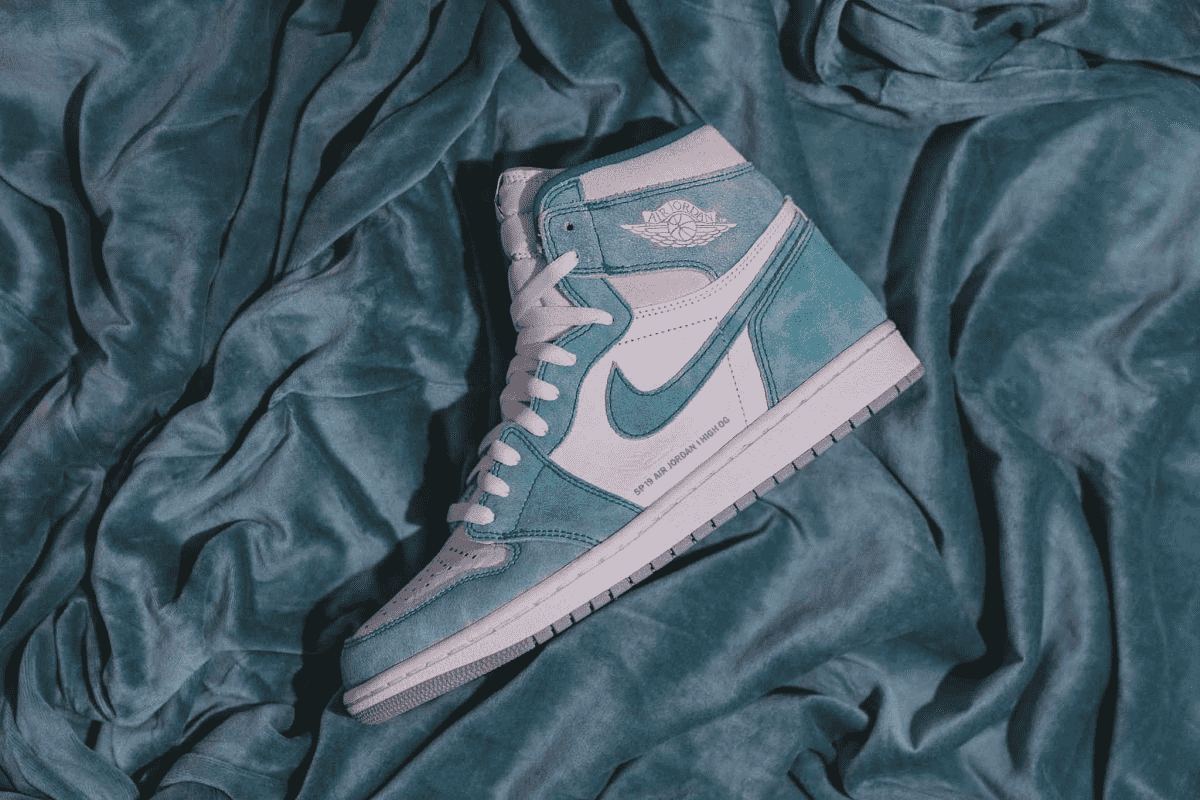
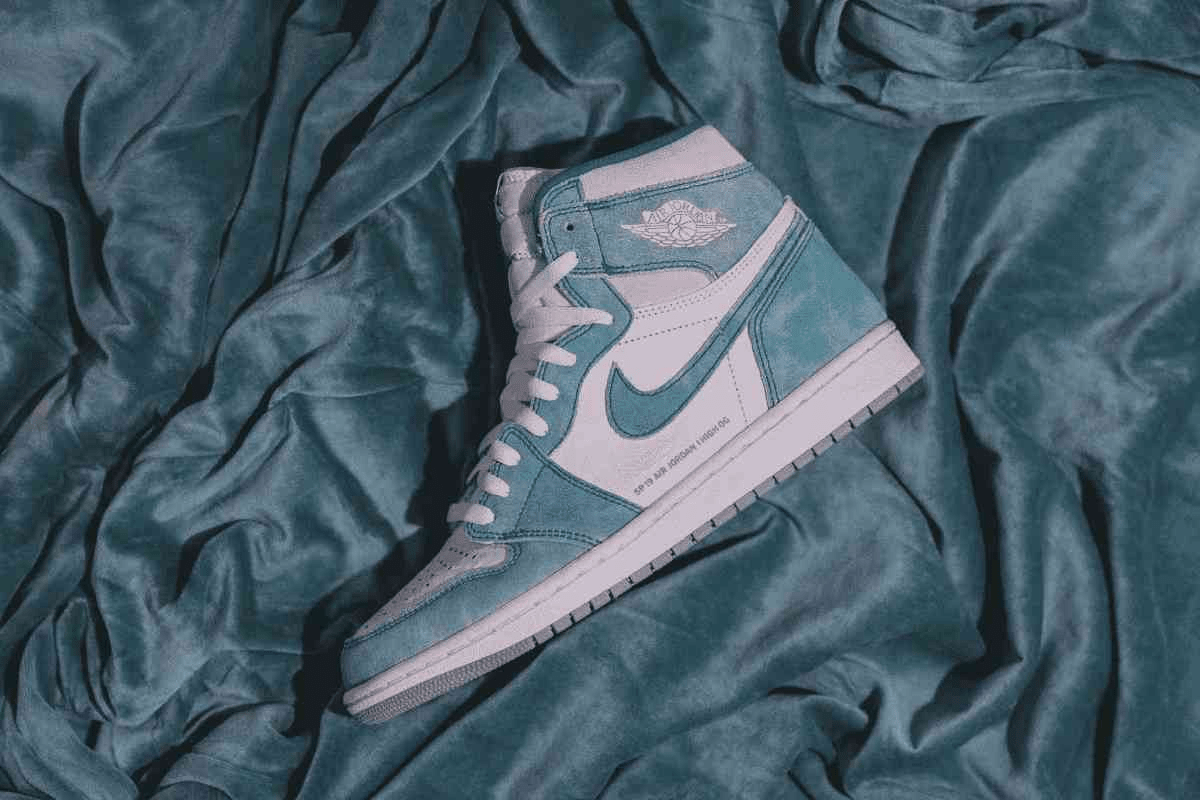
optimizacion de las img

diff --git a/src/App.js b/src/App.js
@@ -11,7 +11,7 @@ import CarritoContainer from "./componentes/Cart/CarritoContainer";
 import Footer from "./componentes/Footer/Footer";
 import { FormDeCompra } from "./componentes/Cart/FormDeCompra";
 
-//Context
+//CONTEXT
 import { CartProvider } from "./contexto/CartContext";
 
 function App() {
